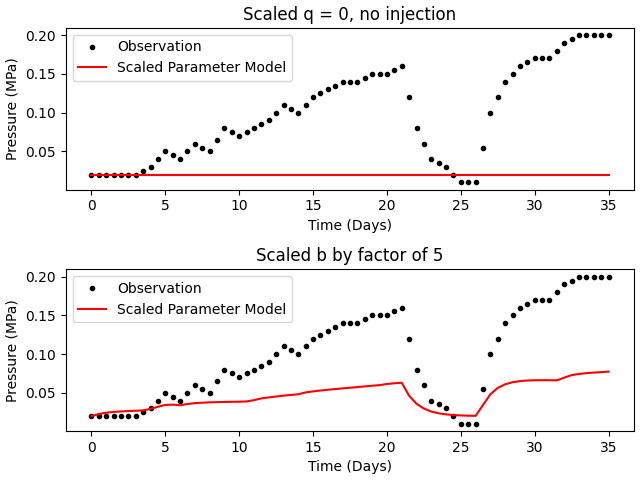
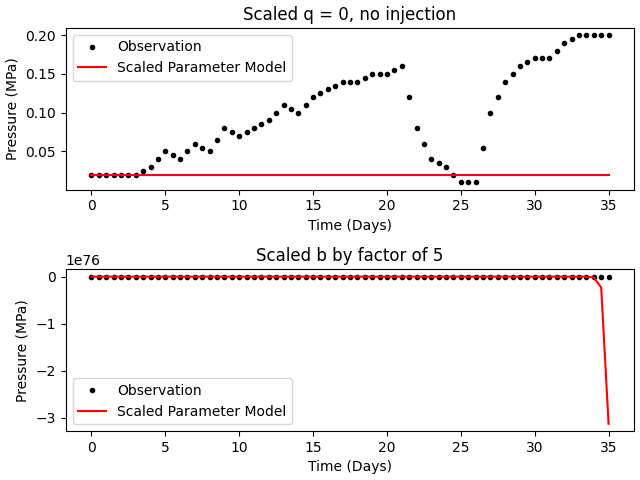
Messed around (unsuccessfully) with parameter estimates)

diff --git a/ethan_stinky_model_attempt2.py b/ethan_stinky_model_attempt2.py
@@ -13,22 +13,29 @@ from sklearn.linear_model import BayesianRidge
 
 # Finding estimates using physics:
 g = 9.81  # m/s^2
-porosity = 0.0175  # of concrete? percentage %1.75
+porosity = 0.02  # of concrete? percentage %1.75
 viscosity = 1.0016 * 10 ** (-3)  # 0.89MPa/s
 density = 997  # of water in kg/m^3
 # k is permeability
 k = 0.1 # 1.257 * (10 ** -6)  # of air? H.m^-1
 
-area = 40000 # g / (0.0008703704260405302 * porosity)
-a = 9.81 * 10 ** (-4) #g / (area * porosity)
+area = 5*10**5 # g / (0.0008703704260405302 * porosity)
+length = 2*10**6 #0.8080259027586483 / 0.0008703704260405302) * (viscosity / (k * density * area))
 
-length = area / (9*10**(-3)) #0.8080259027586483 / 0.0008703704260405302) * (viscosity / (k * density * area))
+# Sam's calculated values (used)
+a = 9.81 * 10 ** (-4) #g / (area * porosity)
 b = 0.586 # a * (k * density * area) / (viscosity * length)
 c = 0
+
+# Ethan's calculated values (unused)
+a_param = g / (area * porosity)
+b_param = a_param * k * density * area / (porosity * length)
 
 A_GUESS = a;
 B_GUESS = b;
 C_GUESS = c;
+
+print(f"a value is: {a_param}\nb value is: {b_param}")
 
 # This function defines your ODE.
 def ode_model(t, p, q, dqdt, a, b, c, p0):
@@ -300,6 +307,7 @@ def plot_suitable():
     misfit = p
     for i in range(len(p)):
         misfit[i] = p_exact[i] - p[i]
+    print(sum(misfit))
     ax2.plot(t, misfit, 'x', label='misfit', color='r')
     ax2.set_ylabel('Pressure misfit (MPa)')
     ax2.set_xlabel('Time (Days)')
@@ -348,6 +356,7 @@ def plot_improve():
     misfit = p
     for i in range(len(p)):
         misfit[i] = p_exact[i] - p[i]
+    print(sum(misfit))
     ax2.plot(t, misfit, 'x', label='misfit', color='r')
     ax2.set_ylabel('Pressure misfit (MPa)')
     ax2.set_xlabel('Time (Days)')

diff --git a/main.py b/main.py
@@ -6,13 +6,13 @@ if __name__ == "__main__":
     # print(len(t_p), len(p), len(t_q), len(q))
 
     # benchmarking for ODE
-    # plot_benchmark()
+    plot_benchmark()
 
-    # # # ODE model with initial parameter values
-    # plot_suitable()
+    # ODE model with initial parameter values
+    plot_suitable()
 
-    # # # ODE model with improved parameter values from curve_fit
-    # plot_improve()
+    # ODE model with improved parameter values from curve_fit
+    plot_improve()
 
     # Plot showing that with q = 0, there is very little pressure variation
     # as expected
